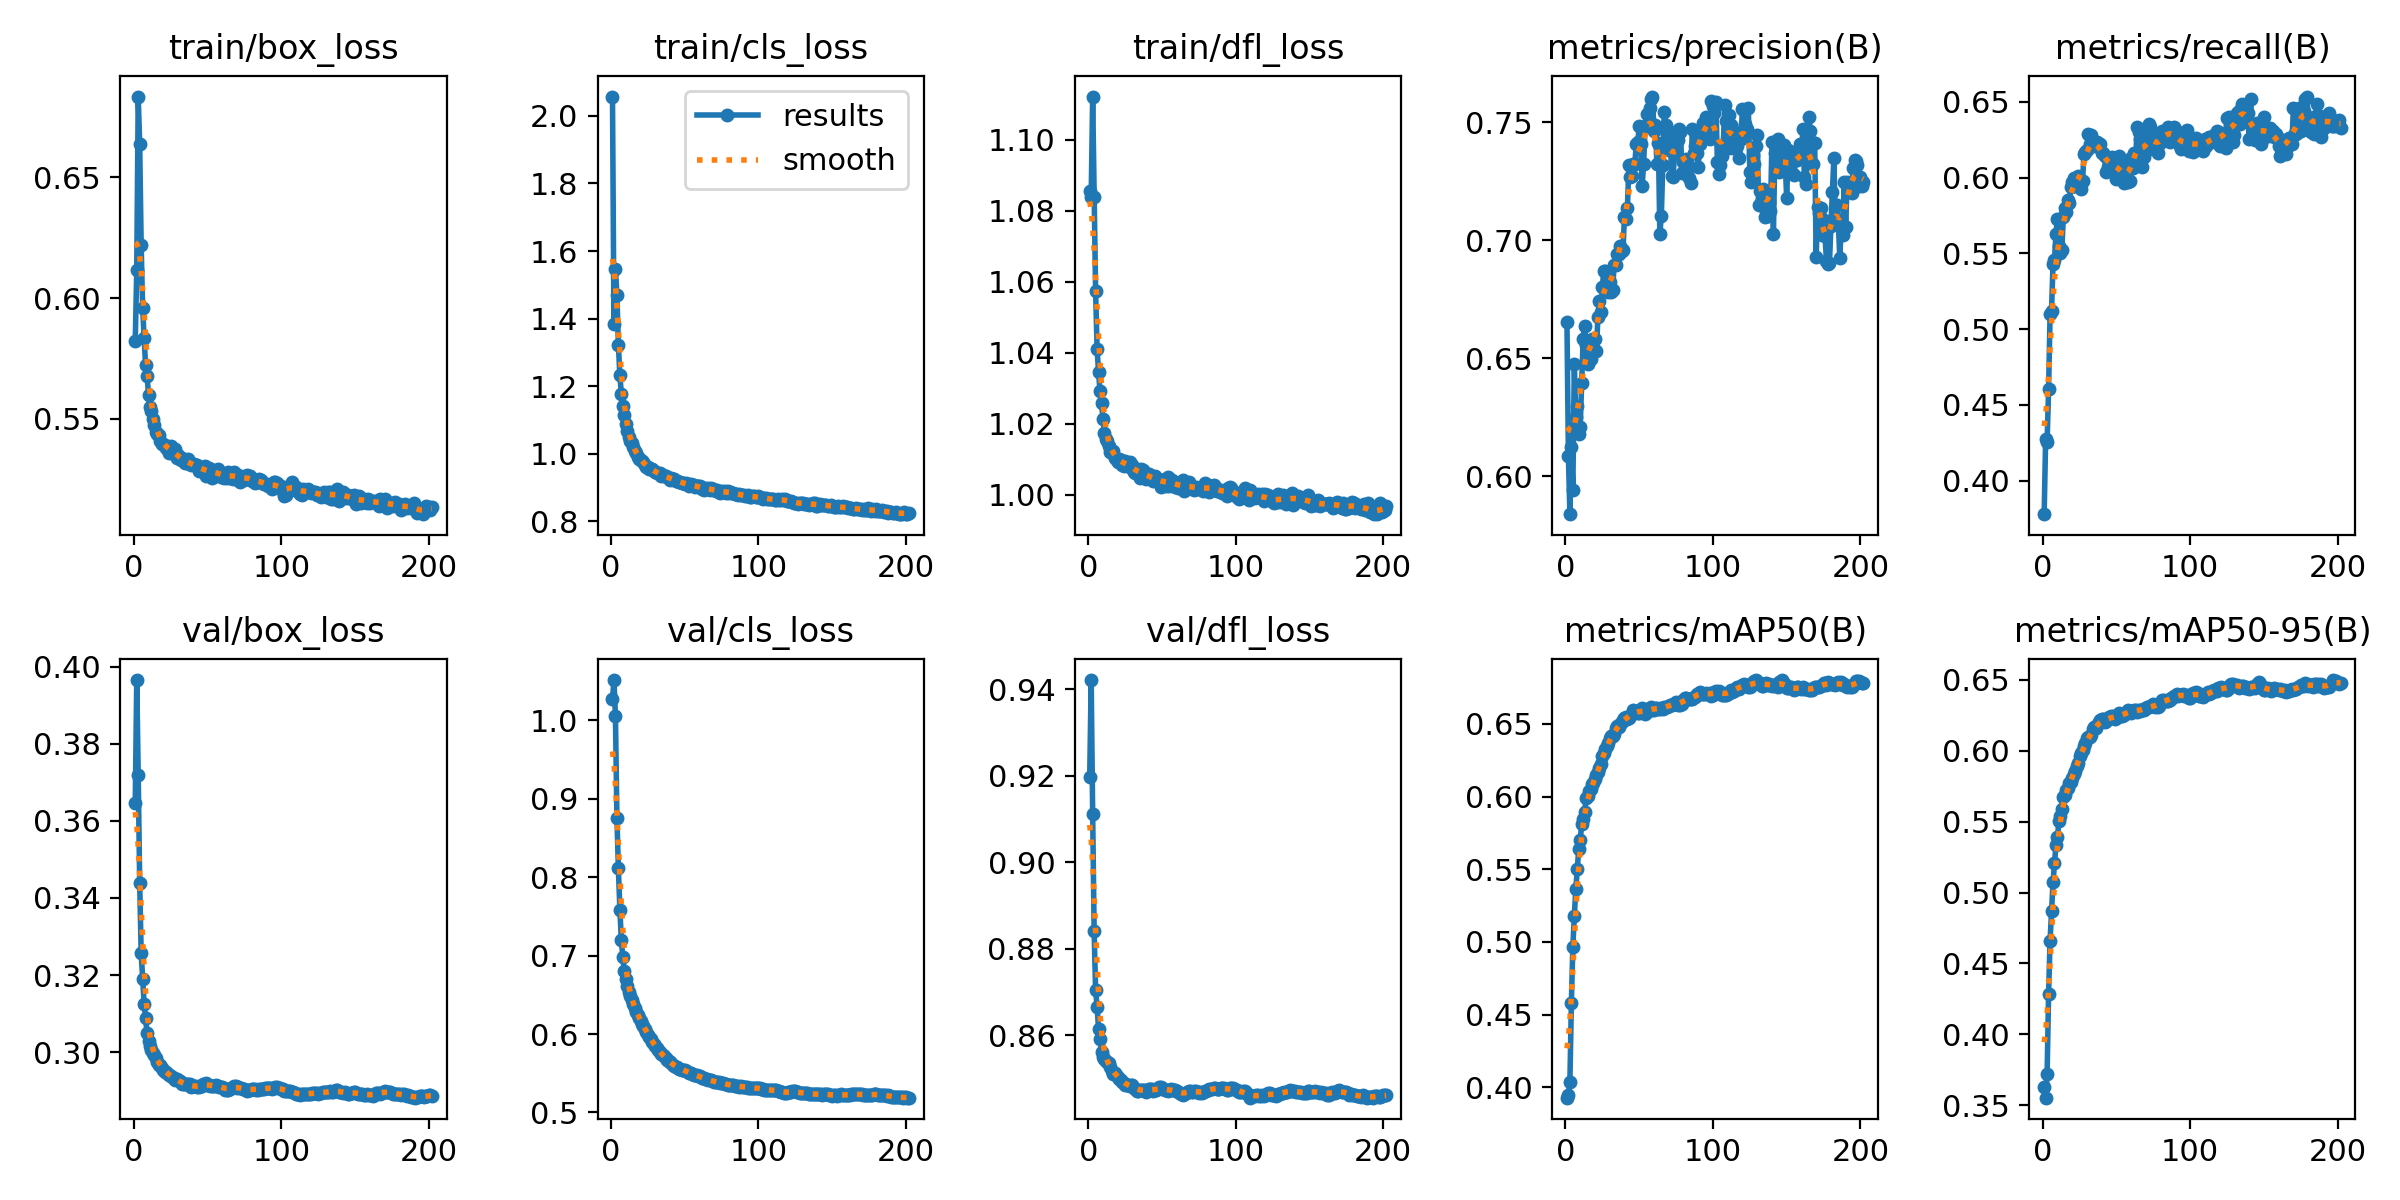
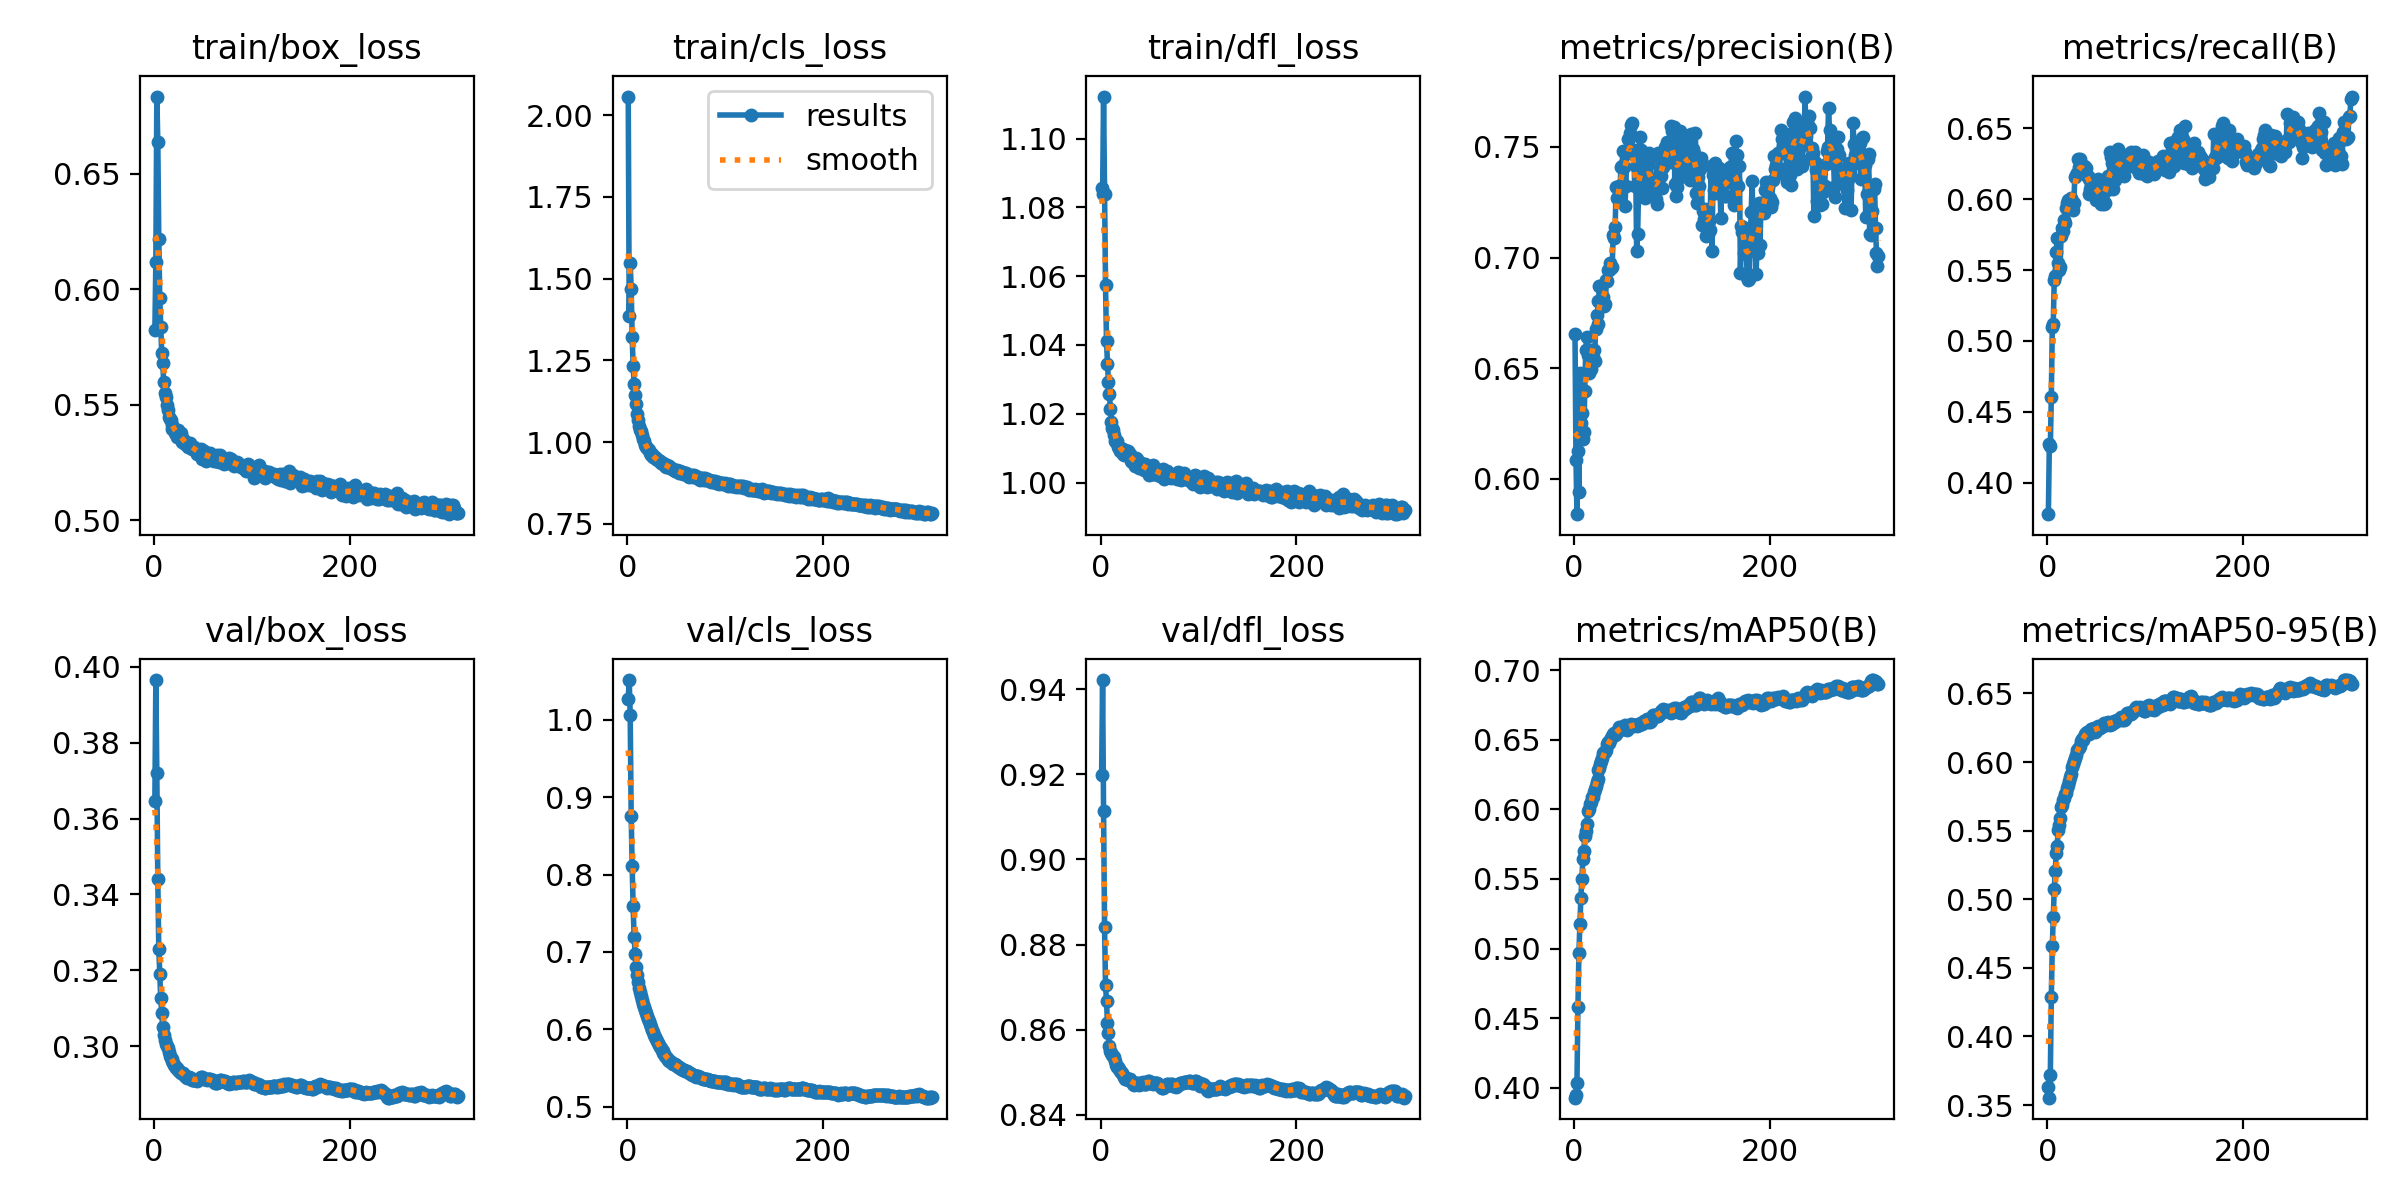
save train data

diff --git a/README.md b/README.md
@@ -14,21 +14,21 @@ More info about project: [Greenery](https://github.com/bkk21/Greenery)
 
 ## Environment
 <div style="display:flex; flex-direction:row;">
-  GPU: Nvidia Quadro RTX 5000 X 2
+  GPU: Nvidia Quadro RTX 5000
 </div>
 <div style="display:flex; flex-direction:row;">
   Ubuntu 20.04
 </div>
 <div style="display:flex; flex-direction:row;">
-  CUDA 11.6
+  CUDA 12.1
 </div>
 <div style="display:flex; flex-direction:row;">
-  PyTorch 1.13.1
+  PyTorch 2.1
 </div>
 
 ## Train
 <div style="display:flex; flex-direction:row;">
-  epoch: 350
+  epoch: 300
 </div>
 <div style="display:flex; flex-direction:row;">
   batch: 64
